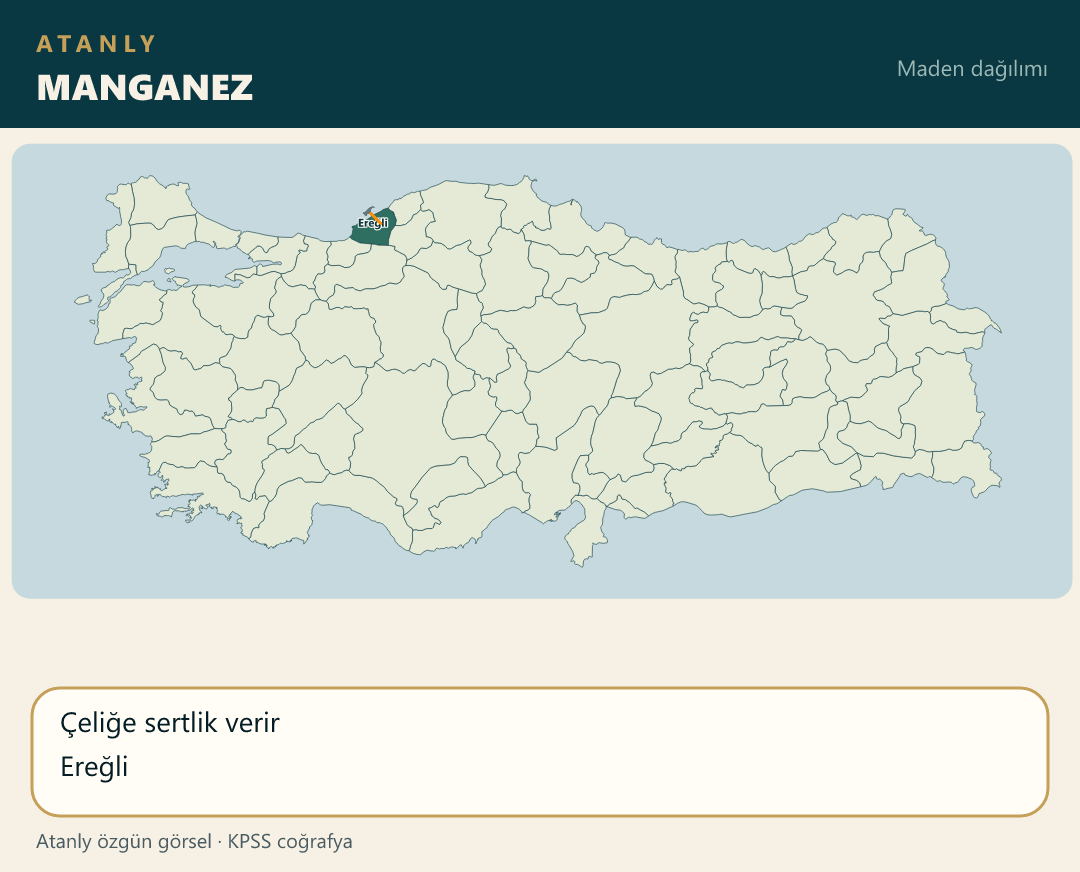
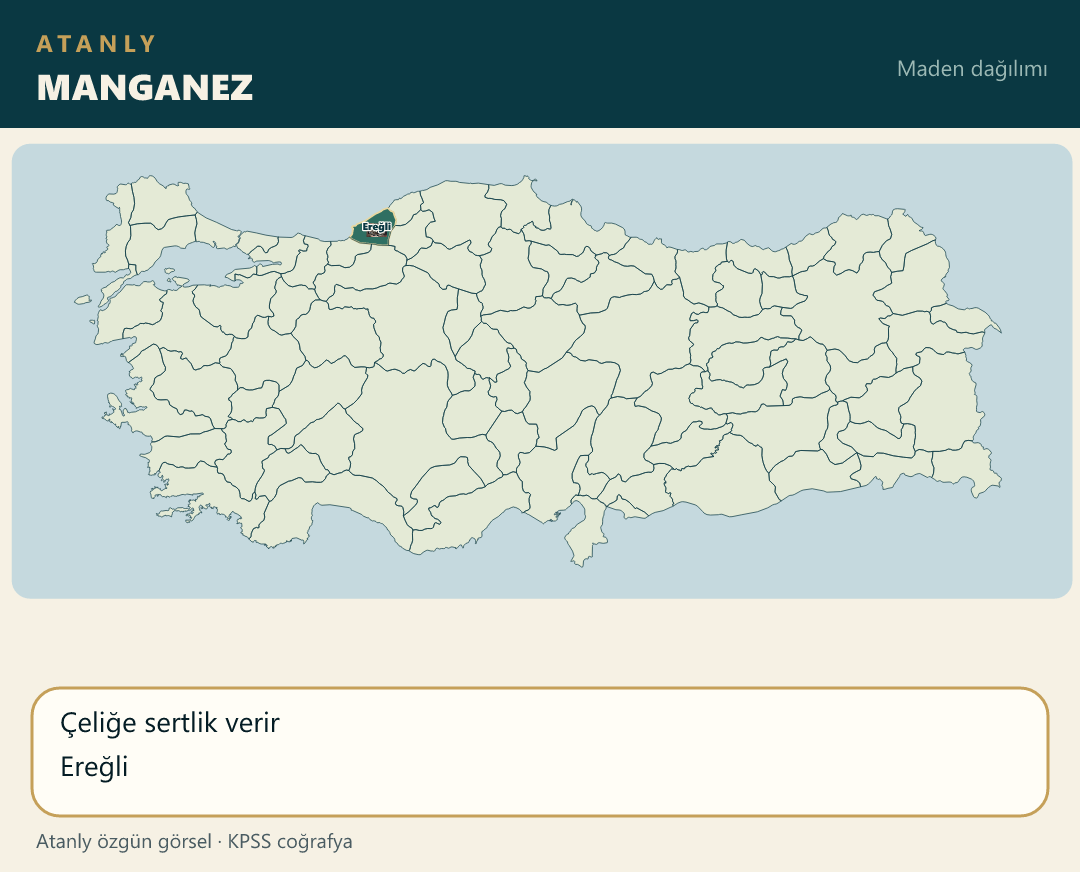
Place the manganese ore photo on the Zonguldak land-center pin.

Changed region(s): [[0.3056, 0.2167, 0.3667, 0.2787], [0.825, 0.4025, 0.8556, 0.4335], [0.2444, 0.4954, 0.275, 0.5264]]

diff --git a/scripts/build-atanly-maps.js b/scripts/build-atanly-maps.js
@@ -486,7 +486,7 @@ function topicIcon(file) {
         madenkrom: "chrome", madenbarit: "barite", madenbor: "boron", madenmermer: "marble",
         madenfosfat: "phosphate", madenasbest: "asbestos", madentrona: "salt", madenaltin: "gold",
         madenuranyum: "uranium", madentoryum: "uranium", madenciva: "mercury", madentuz: "salt",
-        madenperlit: "rock", madenpomza: "rock", madenkukurt: "sulfur", madenmanganez: "iron",
+        madenperlit: "rock", madenpomza: "rock", madenkukurt: "sulfur", madenmanganez: "manganese",
         madenkursun: "lead", madenoltu: "jet", madenlule: "lule", madenvolfram: "tungsten",
         madenfeldspat: "feldspar", madenzimpara: "emery", madenetiket: "ore"
     };
@@ -1079,8 +1079,10 @@ function main() {
                 { il: "Isparta", ilce: "Keçiborlu", ldx: 32, ldy: 8 }
             ],
             facts: ["Bağcılık ve kayısıcılıkta hastalık önler", "Keçiborlu başlıca yataktır"] },
-        { file: "maden_manganez.png", title: "MANGANEZ", iller: ["Zonguldak"],
-            yazilar: ["Ereğli"],
+        { file: "maden_manganez.png", title: "MANGANEZ", urun: "Manganez",
+            noktalar: [
+                { il: "Zonguldak", ilce: "Ereğli", ldx: 32, ldy: 8 }
+            ],
             facts: ["Çeliğe sertlik verir", "Ereğli"] },
         { file: "maden_kursun.png", title: "KURŞUN VE ÇİNKO", urun: "Kurşun",
             noktalar: [

diff --git a/notlar/cografya-21-not.js b/notlar/cografya-21-not.js
@@ -2,7 +2,7 @@
 (function () {
     function harita(src, alt) {
         return '<div class="mt-4 overflow-hidden rounded-xl border border-blue-200 dark:border-blue-700/50 bg-white dark:bg-slate-800 p-2">' +
-            '<img src="./src/img/' + src + '?v=28" alt="' + alt + ' Haritası" class="w-full h-auto rounded-lg object-contain" loading="lazy">' +
+            '<img src="./src/img/' + src + '?v=29" alt="' + alt + ' Haritası" class="w-full h-auto rounded-lg object-contain" loading="lazy">' +
             "</div>";
     }
 

diff --git a/index.html b/index.html
@@ -119,7 +119,7 @@
     <script src="notlar/cografya-18-not.js?v=17"></script>
     <script src="notlar/cografya-19-not.js?v=25"></script>
     <script src="notlar/cografya-20-not.js?v=1"></script>
-    <script src="notlar/cografya-21-not.js?v=21"></script>
+    <script src="notlar/cografya-21-not.js?v=22"></script>
     <script src="notlar/cografya-22-not.js?v=1"></script>
     <script src="notlar/cografya-23-not.js?v=1"></script>
     <script src="notlar/cografya-24-not.js?v=1"></script>
